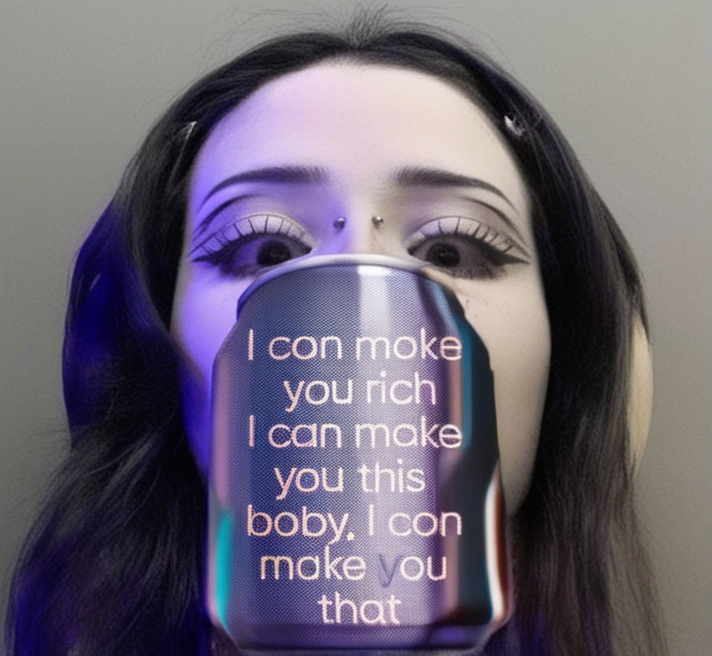
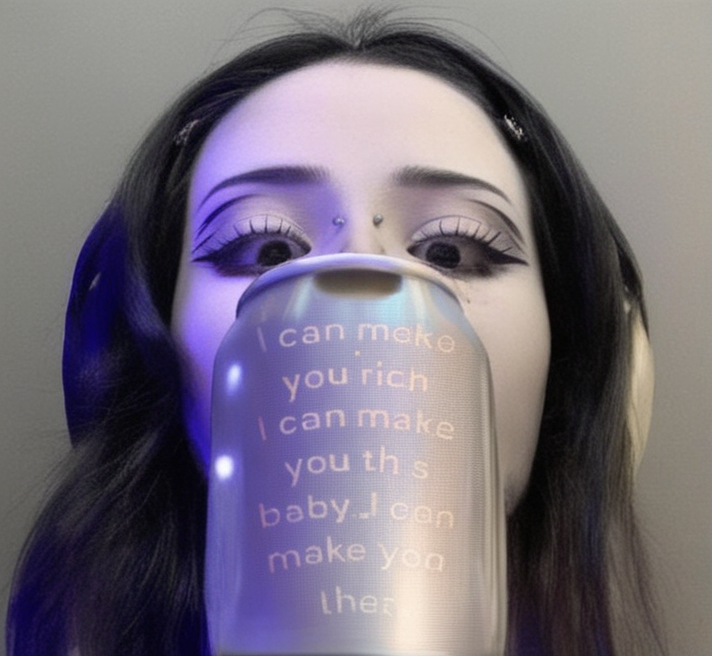
Changing

diff --git a/README.md b/README.md
@@ -1,9 +1,9 @@
 # ADBOT
 ## Overview
-This repository belongs to the "аддикция" community on VK (https://vk.com/addiktsiya)
+This repository belongs to the "аддикция" community on VK (https://vk.com/addiktsiya) and presents specific image generation tools: redrawing the entire image and the area you selected in particular in such a way that the redrawn area contains text describing the image with words from the song
 ## Usage
 ### Preparation
-Before using the repository tools, you must create a weights folder inside the SAM folder and execute the following code inside that folder:
+Before using the repository tools, you must create a "weights" folder inside the "SAM" folder and execute the following code inside that folder:
 ```
 wget -q 'https://dl.fbaipublicfiles.com/segment_anything/sam_vit_h_4b8939.pth'
 ```
@@ -18,13 +18,13 @@ Adding a song to the database:
 ```
 python main.py --insert "lil peep - save that sheet"
 ```
-Generation a text for control image
+Generation a text for control image:
 ```
 python main.py --show
 ```
-Generation an image
+Generation an image:
 ```
-python main.py --object "a can of soda" --number 4
+python main.py --object "a can of soda" --number 4 --strength 0.076
 ```
 ## Results
 ![](results.png)
